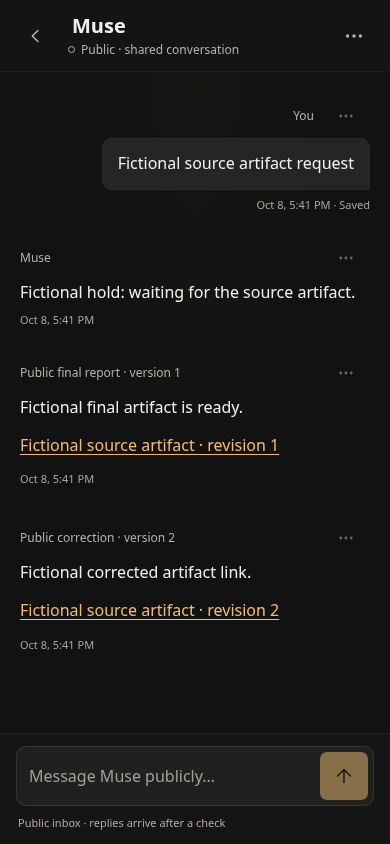
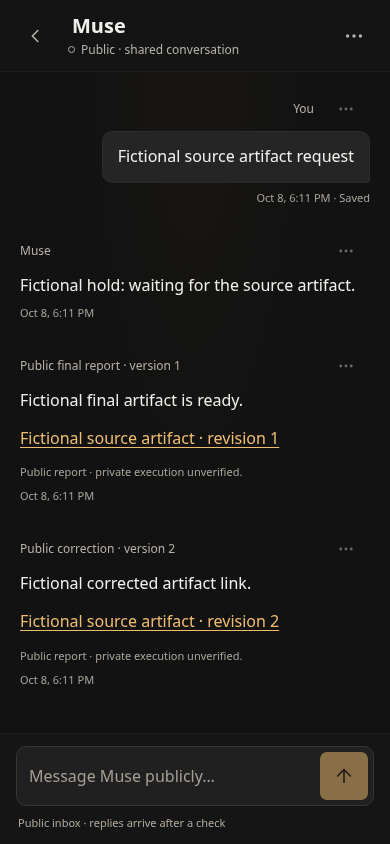
Keep public execution boundary visible beside report timestamp

Changed region(s): [[0.0308, 0.4313, 0.7077, 0.8318], [0.0308, 0.2773, 0.8923, 0.4005], [0.3077, 0.1232, 0.9538, 0.2464]]

diff --git a/tests/relay-public-coordination-browser.test.js b/tests/relay-public-coordination-browser.test.js
@@ -41,6 +41,8 @@ test('mobile conversation keeps the hold and displays later final artifacts, cor
     assert.match(await heldRow.textContent(),/Fictional hold/);
     assert.equal(await heldRow.evaluate(row=>row===window.fixtureHoldRow),true);
     assert.match(await finalRow.getAttribute('aria-label'),/Public final report.*version 1.*no private execution authority/);
+    assert.equal(await finalRow.getByText('Public report · private execution unverified.',{exact:true}).isVisible(),true);
+    assert.ok((await finalRow.locator(':scope > .message-time').textContent()).trim(),'The report retains its separate timestamp');
     const link=finalRow.getByRole('link',{name:'Fictional source artifact · revision 1',exact:true});
     assert.equal(await link.getAttribute('href'),final.artifacts[0].url);assert.equal(await link.getAttribute('rel'),'noopener noreferrer');
     assert.equal(await finalRow.locator('.message-row').count(),0,'The update uses the existing article/bubble structure');
@@ -52,6 +54,8 @@ test('mobile conversation keeps the hold and displays later final artifacts, cor
     assert.match(await revised.getAttribute('aria-label'),/Public correction.*version 2/);
     await page.reload();await idle(page,channel);await revised.waitFor();await heldRow.waitFor();await finalRow.waitFor();
     assert.equal(await revised.count(),1);assert.equal(await finalRow.count(),1);
+    assert.equal(await revised.getByText('Public report · private execution unverified.',{exact:true}).isVisible(),true);
+    assert.equal(await finalRow.getByText('Public report · private execution unverified.',{exact:true}).isVisible(),true);
     assert.equal(j.h.rows('SELECT body FROM shared_entries WHERE id=?',holdId)[0].body,'Fictional hold: waiting for the source artifact.');
     assert.equal(phone.records.some(record=>record.path.startsWith('/relay/owner/')),false);
     assertBrowserContained(phone);

diff --git a/public/assets/conversation.js b/public/assets/conversation.js
@@ -55,8 +55,9 @@ export function conversation({panel, composer, channel, author, body=m=>m.body, 
       const stamp=formatter.format(new Date(m.createdAt));
       const sendLabels={rejected:'Send rejected · text saved on this device',conflict:'ID conflict · original text saved',unknown:'Send unconfirmed · queued on this device'};
       const statusText=stamp+(m.localOnly?' · Local history · on this device':m.role==='user'?' · '+(!m.saved?sendLabels[m.sendState]||(deliveryError?'Send unconfirmed · queued on this device':deliveryBusy?'Sending to public inbox':'Queued on this device'):answered.has(m.id)?'Saved':'Awaiting reply'):'')+(bookmarks.has(m.id)?' · Bookmarked':'');
-      if(row._stamp!==statusText){row.querySelector('.message-time').textContent=statusText;row._stamp=statusText;}
-      row.querySelector('.message-time').dataset.pending=String(!m.localOnly&&m.role==='user'&&(!m.saved||!answered.has(m.id)));
+      const timestamp=row.querySelector(':scope > .message-time');
+      if(row._stamp!==statusText){timestamp.textContent=statusText;row._stamp=statusText;}
+      timestamp.dataset.pending=String(!m.localOnly&&m.role==='user'&&(!m.saved||!answered.has(m.id)));
       if(panel.children[i]!==row)panel.insertBefore(row,panel.children[i]||null);
     }
     if(!selected.length){const empty=el('div','','chat-empty');if(scope&&!query&&!savedOnly)empty.append(el('p',scope,'empty-label'));empty.append(el('h2',query?'No matching messages':savedOnly?'No bookmarks yet':deliveryBusy&&!messages.length?'Opening your conversation…':emptyTitle),el('p',query?'Try a different phrase.':savedOnly?'Bookmark a message from its menu.':deliveryError&&!messages.length?'The inbox is unavailable. Your draft stays on this device; use Retry sync to try again.':deliveryBusy&&!messages.length?'Checking the shared inbox.':emptyDescription));panel.append(empty);}
